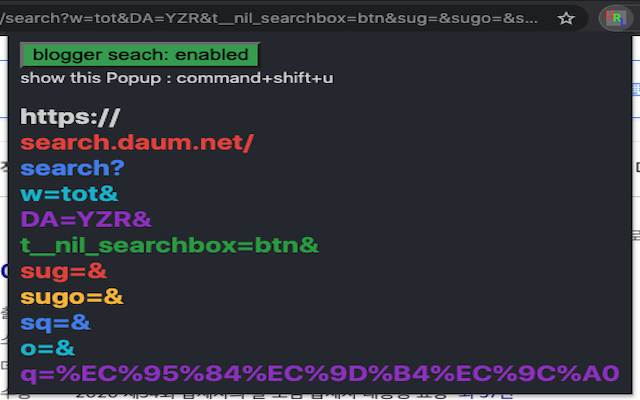
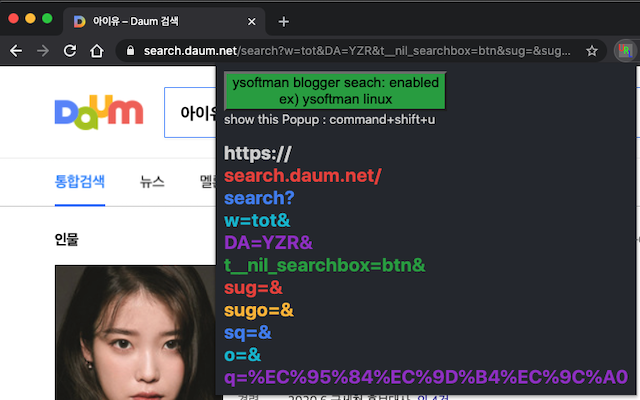
ysoftman blogger 검색 변수 및 스샷 변경

diff --git a/popup.js b/popup.js
@@ -2,9 +2,14 @@
 // imported.src = 'common.js';
 // document.head.appendChild(imported);
 
+const enabled_text = "ysoftman blogger seach: enabled\r\nex) ysoftman linux";
+const disabled_text = "ysoftman blogger search: disabled";
+
 let shortcut = document.getElementById('shortcut');
-let changeColor = document.getElementById('changeColor');
+let enable_blogger_search = document.getElementById('enable_blogger_search');
 let colorizeURL = document.getElementById('colorizeURL');
+
+enable_blogger_search.setAttribute('style', 'white-space: pre;');
 
 function setShortCutDisplay() {
     let shortcut_text = 'ctrl+shift+u';
@@ -16,23 +21,35 @@ function setShortCutDisplay() {
 setShortCutDisplay();
 
 chrome.storage.sync.get('color', function (data) {
-    changeColor.style.backgroundColor = data.color;
-    changeColor.setAttribute('value', data.color);
+    enable_blogger_search.style.backgroundColor = data.color;
+    enable_blogger_search.setAttribute('value', data.color);
     // alert("color : " + data.color)
     backpage.console.log("color : ", data.color);
 });
 
-changeColor.onclick = function () {
-    chrome.storage.sync.get('enable', function (data) {
-        data.enable = !data.enable;
-        chrome.storage.sync.set({ enable: data.enable }, function () {
-            backpage.console.log("blogger seach enable : ", data.enable);
-            if (data.enable) {
-                changeColor.style.backgroundColor = colors.green;
-                changeColor.textContent = "blogger seach: enabled"
+function getEnable() {
+    chrome.storage.sync.get('enable_blogger_search', function (data) {
+        if (data.enable_blogger_search) {
+            enable_blogger_search.style.backgroundColor = colors.green;
+            enable_blogger_search.textContent = enabled_text
+        } else {
+            enable_blogger_search.style.backgroundColor = colors.red;
+            enable_blogger_search.textContent = disabled_text
+        }
+    });
+}
+getEnable();
+
+enable_blogger_search.onclick = function () {
+    chrome.storage.sync.get('enable_blogger_search', function (data) {
+        data.enable_blogger_search = !data.enable_blogger_search;
+        chrome.storage.sync.set({ enable_blogger_search: data.enable_blogger_search }, function () {
+            if (data.enable_blogger_search) {
+                enable_blogger_search.style.backgroundColor = colors.green;
+                enable_blogger_search.textContent = enabled_text
             } else {
-                changeColor.style.backgroundColor = colors.red;
-                changeColor.textContent = "blogger search: disabled"
+                enable_blogger_search.style.backgroundColor = colors.red;
+                enable_blogger_search.textContent = disabled_text
             }
         });
     });

diff --git a/background.js b/background.js
@@ -44,9 +44,9 @@ chrome.commands.onCommand.addListener(function (command) {
 
 chrome.omnibox.onInputEntered.addListener(function (query, target) {
   console.log("query:", query, "  target:", target);
-  chrome.storage.sync.get('enable', function (data) {
-    if (data.enable == false) {
-      console.log("disabled...")
+  chrome.storage.sync.get('enable_blogger_search', function (data) {
+    if (data.enable_blogger_search == false) {
+      console.log("enable_blogger_search : disabled...")
       return;
     }
     let gotourl = 'https://yoonbh2714.blogspot.com/search?q=' + query;

diff --git a/popup.html b/popup.html
@@ -21,7 +21,7 @@
 </head>
 
 <body class="colorizeURL-body">
-  <button id="changeColor">blogger seach: enabled</button>
+  <button id="enable_blogger_search"></button>
   <div id="shortcut"></div>
   <br>
   <div id="colorizeURL" class="colorizeURL-view"></div>

diff --git a/README.md b/README.md
@@ -13,7 +13,7 @@
 
 - 현재 URL을 컬러로 구분해 보여준다.
   ![colorfulURL-screenshot1](./colorfulURL-screenshot1.png)
-- 주소표시줄(omni box)에서 ysoftman + 공백 + 키워드를 쓰면 내 블로그에서 검색한다. ex) ysoftman linux
+- 주소표시줄(omni box)에서 ysoftman + 공백 + 키워드를 쓰면 ysoftman 블로그에서 검색한다. ex) ysoftman linux
   ![colorfulURL-screenshot2](./colorfulURL-screenshot2.png)
 
 ## 크롬 웹스토어 배포
